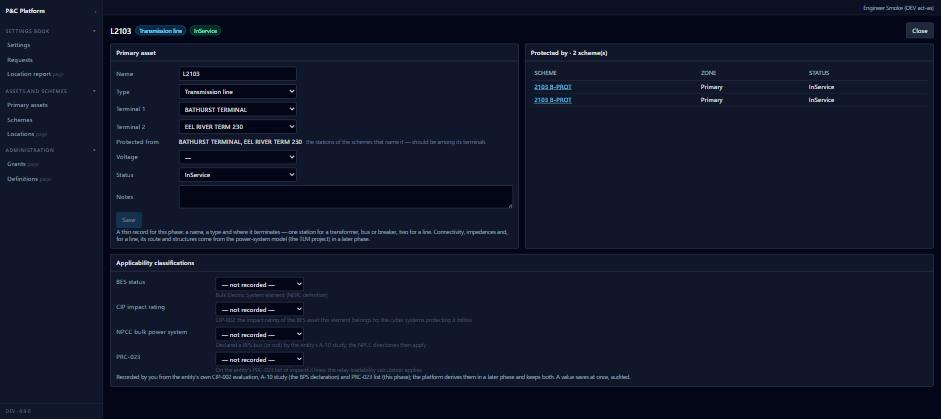
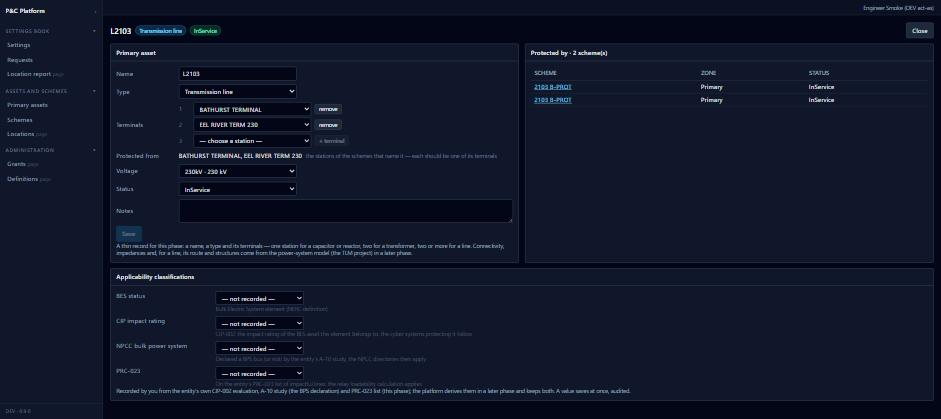
#170: a primary asset has as many terminals as it has (+ terminal on its page); the read model aggregates them
Owner, 2026-09-16: a capacitor or reactor has one terminal, a transformer two, a transmission line could have n. The
TerminalNo check is open-ended; asset.vPrimaryAsset carries TerminalCount, Stations (in order) and TerminalNodeIds; the
primary-asset page lists the terminals with add, change and remove, each saved and audited at once.

Claude-Session: https://claude.ai/code/session_013TsNC7gxoDauT1p8dURK81

diff --git a/src/PnC.Web/src/screens/PrimaryAssetScreen.tsx b/src/PnC.Web/src/screens/PrimaryAssetScreen.tsx
@@ -63,34 +63,55 @@ export function ClassificationPanel({ subjectKind, subjectEntityId, editable }: 
 
 const STATUSES = ['Planned', 'InService', 'OutOfService', 'Retired']
 
+/** The asset's terminals, as many as it has (the owner, 2026-09-16: a capacitor or reactor one, a transformer two, a line could have n):
+ * a station each, numbered in order; "+ terminal" adds one, a change saves at once, remove withdraws it (asset.AssetTerminal, audited). */
+function Terminals({ r }: { r: Row }) {
+  const qc = useQueryClient()
+  const stationsQ = useViewAll('location', 'vNode', { NodeTypeCode: 'Station' }, 'Name')
+  const q = useViewAll('asset', 'vAssetTerminal', { AssetEntityId: s(r.EntityId) }, 'TerminalNo')
+  const [msg, setMsg] = useState<string | null>(null); const [adding, setAdding] = useState(''); const [busy, setBusy] = useState(false)
+  const rows = q.data ?? []
+  const done = (text: string) => { setMsg(text); qc.invalidateQueries({ queryKey: ['view', 'asset', 'vAssetTerminal'] }); qc.invalidateQueries({ queryKey: ['view', 'asset', 'vPrimaryAsset'] }) }
+  const run = async (what: () => Promise<unknown>, text: string) => { setBusy(true); try { await what(); done(text) } catch (e) { setMsg(e instanceof ApiError ? e.message : String(e)) } finally { setBusy(false) } }
+  const nextNo = rows.reduce((m, x) => Math.max(m, Number(x.TerminalNo)), 0) + 1
+  const name = (id: unknown) => s((stationsQ.data ?? []).find((n) => s(n.EntityId).toLowerCase() === s(id).toLowerCase())?.Name)
+  return (
+    <div className="space-y-1">
+      {rows.map((x) => (
+        <div key={s(x.EntityId)} className="flex items-center gap-2">
+          <span className="w-6 text-xs text-slate-500">{s(x.TerminalNo)}</span>
+          <select className={`${inputClass} w-64`} value={s(x.StationNodeEntityId).toLowerCase()} disabled={busy} onChange={(e) => void run(() => proc('asset', 'AssetTerminal_Revise', { EntityId: x.EntityId, AssetEntityId: r.EntityId, TerminalNo: x.TerminalNo, StationNodeEntityId: e.target.value }), `terminal ${s(x.TerminalNo)}: ${name(e.target.value)}.`)}>
+            {(stationsQ.data ?? []).map((n) => <option key={s(n.EntityId)} value={s(n.EntityId).toLowerCase()}>{s(n.Name)}</option>)}
+          </select>
+          <Button kind="mini" disabled={busy} onClick={() => void run(() => proc('asset', 'AssetTerminal_SoftDelete', { EntityId: x.EntityId }), `terminal ${s(x.TerminalNo)} removed.`)}>remove</Button>
+        </div>))}
+      <div className="flex items-center gap-2">
+        <span className="w-6 text-xs text-slate-500">{nextNo}</span>
+        <select className={`${inputClass} w-64`} value={adding} disabled={busy} onChange={(e) => setAdding(e.target.value)}><option value="">— choose a station —</option>{(stationsQ.data ?? []).map((n) => <option key={s(n.EntityId)} value={s(n.EntityId).toLowerCase()}>{s(n.Name)}</option>)}</select>
+        <Button kind="mini" disabled={!adding || busy} onClick={() => void run(async () => { await proc('asset', 'AssetTerminal_Add', { AssetEntityId: r.EntityId, TerminalNo: nextNo, StationNodeEntityId: adding }); setAdding('') }, `terminal ${nextNo}: ${name(adding)}.`)}>+ terminal</Button>
+      </div>
+      {msg && <div className="text-xs text-slate-400">{msg}</div>}
+      {!rows.length && !q.isPending && <div className="text-xs text-slate-500">No terminal yet — a capacitor or reactor has one, a transformer two, a line two or more.</div>}
+    </div>
+  )
+}
+
 /** The primary asset's own fields, editable by anyone who may modify assets (the owner, 2026-09-16: "there needs to be a way for the
  * user to edit these fields" — Line 0012 should have been L0012). Saved through asset.Asset_Revise (the prior row closes in valid
- * time; audited). The terminals — one station for a transformer, bus or breaker, two for a line — are asset.AssetTerminal rows,
- * revised, added or withdrawn beside it. */
+ * time; audited). The terminals are their own list beside it (Terminals). */
 function AssetForm({ r }: { r: Row }) {
   const qc = useQueryClient()
   const typesQ = useViewAll('ref', 'vAssetType', { AssetClassCode: 'Primary' })
   const voltagesQ = useViewAll('ref', 'vVoltageClass', {})
-  const stationsQ = useViewAll('location', 'vNode', { NodeTypeCode: 'Station' }, 'Name')
-  const terminalsQ = useViewAll('asset', 'vAssetTerminal', { AssetEntityId: s(r.EntityId) })
-  const [t1, setT1] = useState(s(r.Terminal1NodeEntityId)); const [t2, setT2] = useState(s(r.Terminal2NodeEntityId))
   const [f, setF] = useState({ Name: s(r.Name), AssetTypeCode: s(r.AssetTypeCode), VoltageClassCode: s(r.VoltageClassCode), Status: s(r.Status), Notes: s(r.Notes) })   // the terminals are t1 / t2 below
   const [msg, setMsg] = useState<{ text: string; bad?: boolean } | null>(null); const [busy, setBusy] = useState(false)
-  const dirty = f.Name !== s(r.Name) || f.AssetTypeCode !== s(r.AssetTypeCode) || f.VoltageClassCode !== s(r.VoltageClassCode) || f.Status !== s(r.Status) || f.Notes !== s(r.Notes) || t1.toLowerCase() !== s(r.Terminal1NodeEntityId).toLowerCase() || t2.toLowerCase() !== s(r.Terminal2NodeEntityId).toLowerCase()
+  const dirty = f.Name !== s(r.Name) || f.AssetTypeCode !== s(r.AssetTypeCode) || f.VoltageClassCode !== s(r.VoltageClassCode) || f.Status !== s(r.Status) || f.Notes !== s(r.Notes)
   const save = async () => {
     if (!f.Name.trim()) { setMsg({ text: 'A name is needed.', bad: true }); return }
     setBusy(true)
     try {
       await proc('asset', 'Asset_Revise', { EntityId: r.EntityId, AssetTypeCode: f.AssetTypeCode, Name: f.Name.trim(), VoltageClassCode: f.VoltageClassCode || null, Status: f.Status, Notes: f.Notes || null })
-      // the terminals: one current row per terminal number — revised, added or withdrawn (asset.AssetTerminal, #170)
-      for (const [no, chosen, was] of [[1, t1, s(r.Terminal1NodeEntityId)], [2, t2, s(r.Terminal2NodeEntityId)]] as [number, string, string][]) {
-        if (chosen.toLowerCase() === was.toLowerCase()) continue
-        const row = (terminalsQ.data ?? []).find((x) => Number(x.TerminalNo) === no)
-        if (!chosen && row) await proc('asset', 'AssetTerminal_SoftDelete', { EntityId: row.EntityId })
-        else if (chosen && row) await proc('asset', 'AssetTerminal_Revise', { EntityId: row.EntityId, AssetEntityId: r.EntityId, TerminalNo: no, StationNodeEntityId: chosen })
-        else if (chosen) await proc('asset', 'AssetTerminal_Add', { AssetEntityId: r.EntityId, TerminalNo: no, StationNodeEntityId: chosen })
-      }
-      setMsg({ text: `${f.Name.trim()} saved.` }); qc.invalidateQueries({ queryKey: ['view', 'asset', 'vPrimaryAsset'] }); qc.invalidateQueries({ queryKey: ['view', 'asset', 'vAssetTerminal'] })
+      setMsg({ text: `${f.Name.trim()} saved.` }); qc.invalidateQueries({ queryKey: ['view', 'asset', 'vPrimaryAsset'] })
     } catch (e) { setMsg({ text: e instanceof ApiError ? e.message : String(e), bad: true }) } finally { setBusy(false) }
   }
   const set = (k: keyof typeof f) => (e: { target: { value: string } }) => setF({ ...f, [k]: e.target.value })
@@ -100,9 +121,8 @@ function AssetForm({ r }: { r: Row }) {
       <div className="grid grid-cols-[8rem_1fr] items-center gap-2">
         <label className="text-slate-400">Name</label><input className={`${inputClass} w-64`} value={f.Name} onChange={set('Name')} placeholder="e.g. L0012" />
         <label className="text-slate-400">Type</label><select className={`${inputClass} w-64`} value={f.AssetTypeCode} onChange={set('AssetTypeCode')}>{(typesQ.data ?? []).map((t) => <option key={s(t.AssetTypeCode)} value={s(t.AssetTypeCode)}>{s(t.Name)}</option>)}</select>
-        <label className="text-slate-400">Terminal 1</label><select className={`${inputClass} w-64`} value={t1} onChange={(e) => setT1(e.target.value)}><option value="">—</option>{(stationsQ.data ?? []).map((n) => <option key={s(n.EntityId)} value={s(n.EntityId).toLowerCase()}>{s(n.Name)}</option>)}</select>
-        <label className="text-slate-400">Terminal 2</label><span><select className={`${inputClass} w-64`} value={t2} onChange={(e) => setT2(e.target.value)}><option value="">— (a line's far end; none for a transformer, bus or breaker) —</option>{(stationsQ.data ?? []).map((n) => <option key={s(n.EntityId)} value={s(n.EntityId).toLowerCase()}>{s(n.Name)}</option>)}</select></span>
-        <label className="text-slate-400">Protected from</label><span className="text-slate-200">{s(r.ProtectedFrom) || <span className="text-slate-500">no scheme yet</span>}<span className="ml-2 text-xs text-slate-500">the stations of the schemes that name it — should be among its terminals</span></span>
+        <label className="text-slate-400">Terminals</label><Terminals r={r} />
+        <label className="text-slate-400">Protected from</label><span className="text-slate-200">{s(r.ProtectedFrom) || <span className="text-slate-500">no scheme yet</span>}<span className="ml-2 text-xs text-slate-500">the stations of the schemes that name it — each should be one of its terminals</span></span>
         <label className="text-slate-400">Voltage</label><select className={`${inputClass} w-64`} value={f.VoltageClassCode} onChange={set('VoltageClassCode')}><option value="">—</option>{(voltagesQ.data ?? []).map((v) => <option key={s(v.VoltageClassCode)} value={s(v.VoltageClassCode)}>{s(v.VoltageClassCode)}{v.NominalKv != null ? ` · ${s(v.NominalKv)} kV` : ''}</option>)}</select>
         <label className="text-slate-400">Status</label><select className={`${inputClass} w-64`} value={f.Status} onChange={set('Status')}>{STATUSES.map((x) => <option key={x}>{x}</option>)}</select>
         <label className="text-slate-400">Notes</label><textarea className={`${inputClass} w-full`} rows={2} value={f.Notes} onChange={set('Notes')} />
@@ -134,8 +154,8 @@ export default function PrimaryAssetScreen({ params: p, id }: { screen: Screen; 
       </header>
       <div className="grid gap-3 lg:grid-cols-2">
         <Panel title="Primary asset">
-          {editable ? <AssetForm r={r} /> : <Facts cols={1} pairs={[['Name', s(r.Name)], ['Type', s(r.AssetTypeName)], ['Terminal 1', s(r.Terminal1StationName) || '—'], ['Terminal 2', s(r.Terminal2StationName) || '—'], ['Protected from', s(r.ProtectedFrom) || 'no scheme yet'], ['Voltage', s(r.VoltageClassCode) || '—'], ['Status', s(r.Status)], ['Notes', s(r.Notes) || '—']]} />}
-          <Status>A thin record for this phase: a name, a type and where it terminates — one station for a transformer, bus or breaker, two for a line. Connectivity, impedances and, for a line, its route and structures come from the power-system model (the TLM project) in a later phase.</Status></Panel>
+          {editable ? <AssetForm r={r} /> : <Facts cols={1} pairs={[['Name', s(r.Name)], ['Type', s(r.AssetTypeName)], ['Terminals', s(r.Stations) || '—'], ['Protected from', s(r.ProtectedFrom) || 'no scheme yet'], ['Voltage', s(r.VoltageClassCode) || '—'], ['Status', s(r.Status)], ['Notes', s(r.Notes) || '—']]} />}
+          <Status>A thin record for this phase: a name, a type and its terminals — one station for a capacitor or reactor, two for a transformer, two or more for a line. Connectivity, impedances and, for a line, its route and structures come from the power-system model (the TLM project) in a later phase.</Status></Panel>
         <Panel title={`Protected by · ${protectedByQ.isPending ? '…' : (protectedByQ.data ?? []).length} scheme(s)`}>
           <DataGrid rows={protectedByQ.data ?? []} rowKey={(x) => s(x.EntityId)} emptyText="No scheme names this asset yet — on a scheme's page, “protects”." columns={[
             { key: 'SchemeName', label: 'Scheme', render: (x) => <a className="text-sky-300 underline" href={screenPath('SCHEME', s(x.SchemeEntityId))} onClick={(e) => { e.preventDefault(); navigate(screenPath('SCHEME', s(x.SchemeEntityId))) }}>{s(x.SchemeName)}</a> },

diff --git a/src/PnC.Web/src/screens/SchemeScreen.tsx b/src/PnC.Web/src/screens/SchemeScreen.tsx
@@ -43,7 +43,7 @@ export default function SchemeScreen({ params: p, id }: { screen: Screen; params
   const station = stationQ.data
   // every primary asset, any station: a line has two ends and both ends' schemes protect the one line (2103 B-PROT at Bathurst and at Eel River, 2026-09-16)
   const candidatesQ = useViewAll('asset', 'vPrimaryAsset', {}, 'Name')
-  const candidates = useMemo(() => { const f = find.toLowerCase(); const all = candidatesQ.data ?? []; const hit = all.filter((x) => !f || s(x.Name).toLowerCase().includes(f) || s(x.Stations).toLowerCase().includes(f)); const here = (x: Row) => s(x.Terminal1NodeEntityId) === s(station?.StationNodeEntityId) || s(x.Terminal2NodeEntityId) === s(station?.StationNodeEntityId) ? 0 : 1; return hit.sort((a, b) => here(a) - here(b) || s(a.Name).localeCompare(s(b.Name))) }, [candidatesQ.data, find, station])
+  const candidates = useMemo(() => { const f = find.toLowerCase(); const all = candidatesQ.data ?? []; const hit = all.filter((x) => !f || s(x.Name).toLowerCase().includes(f) || s(x.Stations).toLowerCase().includes(f)); const here = (x: Row) => s(x.TerminalNodeIds).toLowerCase().includes(s(station?.StationNodeEntityId).toLowerCase()) && station?.StationNodeEntityId ? 0 : 1; return hit.sort((a, b) => here(a) - here(b) || s(a.Name).localeCompare(s(b.Name))) }, [candidatesQ.data, find, station])
   const editable = can('Scheme.Modify')
   const refresh = () => { qc.invalidateQueries({ queryKey: ['schemeProtects', id] }); qc.invalidateQueries({ queryKey: ['view', 'asset', 'vPrimaryAsset'] }) }
   const link = async (assetId: string, label: string) => {

diff --git a/src/PnC.Api.Smoke/Program.cs b/src/PnC.Api.Smoke/Program.cs
@@ -992,7 +992,7 @@ if (admin is not null && approver is not null && hydro is not null && tech is no
             Must(la == HttpStatusCode.OK && line is not null && pa == HttpStatusCode.OK && sa == HttpStatusCode.OK, $"#170: a line created with the station as its terminal 1 and the scheme protects it ({(int)la} {Code(lb)} · {(int)pa} {Code(pb)} · {(int)sa} {Code(sb)})");
             var (pas, pab) = await Get(admin, $"api/v1/asset/vPrimaryAsset?EntityId={line}");
             var prow = (pab?["rows"] as JsonArray)?.FirstOrDefault();
-            Must(pas == HttpStatusCode.OK && prow?["AssetTypeCode"]?.ToString() == "Line" && string.Equals(prow?["Terminal1NodeEntityId"]?.ToString(), station.ToString(), StringComparison.OrdinalIgnoreCase) && prow?["Classifications"] is null,
+            Must(pas == HttpStatusCode.OK && prow?["AssetTypeCode"]?.ToString() == "Line" && (prow?["TerminalNodeIds"]?.ToString() ?? "").Contains(station.ToString()!, StringComparison.OrdinalIgnoreCase) && prow?["Classifications"] is null,
                 $"#170: the primary-asset read model shows the line with its terminal and no classification yet ({prow?["AssetTypeName"]}, terminals {prow?["Stations"]})");
             var (k1s, k1b) = await Post(hydro!, "api/v1/asset/RecordClassification", new { SubjectKind = "Asset", SubjectEntityId = line, ClassificationKindCode = "CipImpactRating", ClassificationValue = "Medium" });
             var (k2s, k2b) = await Post(admin, "api/v1/asset/RecordClassification", new { SubjectKind = "Asset", SubjectEntityId = line, ClassificationKindCode = "NpccBulkPowerSystem", ClassificationValue = "BPS" });

diff --git a/docs/decisions/DECISION-LOG.md b/docs/decisions/DECISION-LOG.md
@@ -184,7 +184,7 @@ the owner's mark-up of requirements v0.1. `Schema review` is `docs/review/SCHEMA
 | 167 | **The settings record's columnless legacy fields are characteristics of the revision, in one seeded schema; the record screen is plain code.** `CharacteristicSchema.RecordTemplate` definition `SETTINGS_RECORD` (`Seed_config_CharacteristicSchema_SettingsRecord.sql`): class, use, responsibility, bulk power element, protection group, element, line type, number of relays under *Classification*; the four main and four auxiliary CT ratios and the two PT ratios under *Instrument transformers*. The record screen (`src/PnC.Web/src/screens/RecordScreen.tsx`, screen kind `record`, definition `SETTINGS_RECORD` naming only its view and key) lays out whatever the schema carries by display group, reads a migrated revision's values from its record summary until they are migrated into values, and saves a value on an **Outstanding** revision directly (`document.CharacteristicValue_Add` / `_Revise`, audited) — the direct save with audit of #163; an in-service or archived revision is the record and is read-only. The screen carries the 0.9.0 record page's every function (facts, notes, parsed settings, the text as filed, files and records, Compare) and replaces it; with the work item and the queue in React, `settings.html`, `requests.html`, `request.html` and `setting.html` are retired (service-worker shell `shell-10`). Rule applied (owner, 2026-09-15): a one-off screen is React with its constants, not a parameter grammar — the screen definition names the data and the kind, nothing more | The owner's ruling that these fields are characteristics ("no value in indexing, grouping etc. on them"); #163; #165 | W8 |
 | 168 | **The first device template: the SEL-221F carried to completion before any modern relay — the settings by function, a reader and a writer per vendor format proven by round trip, the template as the daily-value work.** The owner, 2026-09-16: engineers will not author JSON and procedures seldom change; what the staff use every day is the device — its settings grouped by function with the inputs the model has, the standard settings marked, the NERC/NPCC classifications, the compliance calculations and documentation ("everything needed to manage the device"). And the hard requirement: settings are edited **in the platform** and at implementation the platform **writes the manufacturer's native settings file** with no retyping; a vendor whose format cannot be written is excluded from procurement. Rulings: an aliases column on the setting definition; no standard settings for the 221F (deferred); the classification → requirement logic is generic (BCA → CIP, NPCC A-10 → Directory 4, the PRC-023 list → a loadability calculation from the settings) and how each is handled may be custom; the 221F's file is the name=value list in SET order. **Built (increment 1):** `config.SettingDefinition` + `DisplayOrder` (the SET order, the writer's order), `Aliases` (legacy spellings, matched case-insensitively) and `Format` (`decimal:N` / `integer` / `text` / `mask3`); `document.ParsedSetting` + `RawValue` (the value text as filed — what makes a platform-written file byte-identical on re-parse). `process.ParseSettingsText`: aliases, chained `A=B=C=value`, the `LOGIC SETTINGS:` marker, a malformed fragment (`PSVC=S 27VLO=40`, a separator missing) read at its first `=` and noted, a re-parse closes the prior reading in valid time. `process.RenderSettingsText` (new, the writer; `GET /api/v1/settings/{revision}/rendered`). `compliance.fSettingFactValue` reads `SettingsText` revisions too (every text-settings device's `device.settings.*` facts were NULL — a defect). **The template** (`tools/template_sel221f.py`, one source → `Seed_config_SettingsTemplate_SEL221F.sql` and `docs/design/examples/templates/sel-221f.template.md`, the artefact the owner reviews): 56 rows from the manual (IM 981207, `Z:\Archive-WorkingData-Cloud\Work\DATA\Manuals\SEL\221F-2-3-4_IM_19981207.pdf`) — ID, the 42 SET settings, BFIN1/BFTD (the -3/-4), the ten logic masks — grouped by the manual's Specifications headings (twelve groups; the Section-5 heading and page cites in each description; a first cut by the 22 Section-5 headings gave 22 tabs and was replaced), with unit, base, primary range, closed list (seven enumerations), ANSI function, aliases (`Z1`→`Z1%`, `RO`→`R0`, `XO`→`X0`, `Z3DP`→`Z3D`) and format; the manual's two internal inconsistencies (CTR 1–6000 vs 1–5000; 25DV 0–125 vs 0–150 secondary) recorded in the descriptions. Bound to the model codes `SEL-221F Z1-3=.125-64 OHMS` and `SEL-221F`; the `SEL-221S` codes are **not** bound (their texts carry 67ND and other names the 221F has not — a different relay, a finding, not a merge). `Seed_ref_AnsiFunction_Core.sql` gives the codes the template cites their C37.2 names (the migration had named them from legacy position text). **Migration:** the filed text is `SET1` + `", "` + `SETTINGS2` — the legacy split a list at 255 characters and #140 filed the head only (51 of the 53 Active 221F texts were truncated; the tail, with the logic masks, sat in the record summary). **The round trip** (`docs/schema/migration/roundtrip_settings.py`): for every revision `render(parse(text))` against the filed text — identical / values-equal (the differences listed: the legacy users typed 14 different orders and spellings) / mismatch; a platform-written file must be identical (the strict rule, increment 2). Before the reload, on DEV's 53 Active 221F texts: 19 identical, 34 values-equal, 0 mismatch. **The device sheet** (`DeviceSettings.tsx` inside `RecordScreen.tsx`, plain React per #167): what the relay does as function chips from the template's ANSI codes, the inputs from its ratio settings (the manual's words in the definitions), a tab per group with value / unit / range / out-of-range and the manual's words per setting, a SHOWSET-like listing, and the file the platform writes beside the file as filed; the generic instrument-transformer characteristics hidden when the template carries the ratios. Nothing per model in code: a template for another relay draws the same way. Data findings for the owner: the `SEL-221F` model code carries texts of other relays (ZD2L, Z3DG, TAP, T.D. — Partial); three texts are malformed at the source. Deferred to the next increments: editing in the platform and the M as a copy of the A filed as rendered text at the settings step (2); classifications and the generic obligation rules with the PRC-023 worked example, content from the owner (3). **Increment 2 (built 2026-09-16, evening):** `process.SetParsedSetting` (one value of an outstanding revision, read as the parser reads it — type, primary range, closed list — the prior row closed in valid time, audited with code/from/to; `ConfigurationFile.Modify` on the device over HTTP); `process.CopyRevisionAsDraft` (at the request step, every device named by a captured Device set gets a draft copied from its in-service revision, parsed, in the package — the legacy M from the A, Outstanding at once); `process.IssueRenderedSettings` + `process.RefileRevision` (a settings step committed with no file writes the draft's rows as the model's text and files it as the revision's Native file, replacing the copy's, then reads its own file back through the parser — the round trip in place; `evidence.required` is satisfied by the platform-written file; a vendor file attached over the copy re-files the copy, one outstanding revision per device per package); the edit cell on the device sheet. Proven twice: the smoke's #168 section on the BDD15B fixture, and the owner's four steps on Bathurst 0012 B-PROT SEL-221F through the screens (`evidence/W8-fourstep-221f-*.jpg`): request → revision 3 outstanding as a copy of revision 2 → Z1% edited 21→22 on the sheet (three audited edits) → rationale attached, settings step committed with no file: `A0523_875199 (2).txt`, 510 bytes, byte-identical to the rendered text, re-read Parsed → hold released → installed as the technician → completed: revision 3 in service from 13:12, revision 2 archived, the request Closed; the Active round trip then reads 1 identical (the platform's file), 52 values-equal, 0 mismatch. **The fresh DEV reload** (`RECONCILIATION-2026-09-16-DEV.md`): 437 358 rows in 7 304 s, second pass 0; every text SET1+SETTINGS2 (11 554 equal, 0 differ); 949 revisions parsed; the 221F round trip 181 revisions values-equal, 0 mismatch, 0 unparsed after template v4 (alias MT0), the parser's tolerant marker, the missing-separator rule (a space, a known name and '=' is a comma the legacy user missed — noted per record) and the refined chain rule (a misspelt single word in a chain is a typo, the other names keep the value); the round-trip tool compares the filed text with the stored rows, not with a re-parse of the rendered text, which had hidden a lost chain. Parser rules and their tests live in `ParseSettingsText.sql` / `roundtrip_settings.py`; the data findings (typos, foreign texts under the `SEL-221F` code, missing separators) are the records' own, listed in the reconciliation | The owner's direction and rulings of 2026-09-16; the manual; the DEV survey of the 221F texts; agrees with #61 (a per-model template) and extends it with the writer; supersedes the reading that data flows only from the device file to the platform | W8 |
 | 169 | **A hand-written read model reads its lookups from the base tables in the current-row form, never through a generated current view; a scoped read of a materialised read model pins its join order.** Found on the reloaded DEV estate (2026-09-16): `document.vSettingsRecord` joined `work.vWorkRequest` and `process.vWorkflowInstance` (generated current views, ROW_NUMBER over the entity) and the optimizer evaluated the request view once per outer row — the whole WorkRequest table scanned and sorted 11 572 times, 137 million rows, 48 s for the view that had run in 1–6 s the day before (a plan the fresh statistics flipped). Rewritten as `OUTER APPLY … WHERE ValidTo IS NULL AND IsDeleted = 0 … ORDER BY RowSeq DESC` (the filtered indexes' own form, as the view's other lookups already were): 1.2 s. Then the API's scoped form of the same read (the readable set joined to the view, `OPTION (RECOMPILE)`, #158) still ran past 200 s in every free shape — join, `IN`, a table variable — because the optimizer drove the view's correlated lookups from the readable set (6 879 assets); `FORCE ORDER` (or a hash-join hint) kept the written order, the view first, and measured 1.7 s. `SqlSession` now adds `FORCE ORDER` to the recompiled scoped read of the views in `MaterialiseBeforePaging` (the hand-written read models); generated views keep the optimizer's freedom. The settings grid through the API: 1.6 s (500 rows). Also: a copy made at the request step belongs to its request before any record points at it — the view finds the request through the request-confirmation record that names the package (`prec`), so the work item lists the copy at once. **The record screen's sections are tabs (owner, 2026-09-16, on seeing the sheet): Settings, Classification, Notes, Text as filed, Files and records, Compare — nothing sits under the settings tabs whatever tab is chosen (it read as part of the settings). Follow-up recorded: a copy made at the request step shows an empty Classification because a migrated revision's class/use/responsibility live in its record summary, not in characteristic values (#167); migrating them into values is the fix, then `CopyRevisionAsDraft` carries them | The measurements of 2026-09-16 (actual plans read from `SET STATISTICS XML`); agrees with #158 (the join form) and refines it; the NFR-2 rule | W8 |
-| 170 | **Applicability classifications belong to the primary asset a scheme protects, not to the relay; in this phase a person records them, a later phase derives them; the primary-asset registry is thin.** The owner, 2026-09-16, in three steps. (1) Whether a relay is a BES Cyber Asset for CIP is only partly about the device (a cyber device or not); the deciding criterion is the importance of the primary asset it protects in its station — the CIP-002 evaluation under the entity's procedure puts primary assets in scope and every other CIP standard follows; NPCC is the same shape: the A-10 study, repeated on an interval, lists the impactful busses and the directories apply to what sits at them. (2) The CIP-002 procedure and the A-10 derivation are a project of their own, wanted but not this phase: the values are set by a person for now, from the entity's own lists, in a way that leaves the derivation, its schedule and its reporting to slot in without rework. (3) The classification belongs to the primary asset the device is assigned to protect; transmission lines will come from the owner's TLM project (structure coordinates; Carson's equations still to do), transformers, busses and connectivity are not modelled yet, and modelling the power system is not this phase. **Built:** asset types Line, Transformer, Bus, Breaker, Generator, Capacitor, Reactor and System (the asset a RAS or other system-protection scheme protects — the owner: a system protection has no single primary element), class Primary, not devices, a line not routed until TLM supplies its route (`Seed_ref_AssetType_Primary.sql`); the PRC-023 classification kind beside BesStatus, CipImpactRating and NpccBulkPowerSystem (the seeded NpccA10 kind retired the same evening — the owner: "NPCC bulk power system and NPCC A-10 are the same thing; A-10 is the study document that determines whether a bus is declared as an NPCC BPS bus or not" — one kind, the study as its basis); `asset.vPrimaryAsset` (the asset, its station through its placement, its current classifications summarised); `asset.RecordClassification` (one current value per subject and kind, `Basis = Recorded`, the person and the instant, optionally the list or study as the reference document; a new value revises, an empty one withdraws; audited; `Asset.Modify` on the subject over HTTP); the `SCHEME` screen (members; "protects": pick a primary asset at the scheme's station or create one — a name, a type, the station, nothing more — with its zone role; `scheme.SchemeProtects_Add/_SoftDelete`) and the `PRIMARY_ASSET` screen (where it is, the schemes protecting it, the classifications in the standards' own words — CIP High/Medium/Low/None, BES/Not BES, BPS/Not BPS, Listed/Not listed — never a yes/no that would need re-encoding); the device sheet's Where panel shows "protects <asset> via <scheme>" with the inherited classifications and links to both. Shown on DEV: Line 0012 created at Bathurst Terminal from the 0012 B-PROT scheme's page, protected primary, CIP impact Medium and A-10 Impactful recorded by the engineer, the device sheet of 0012 B-PROT reading them through its scheme (`evidence/W8-scheme-protects-line-0012.jpg`, `W8-primary-asset-line-0012-classified.jpg`, `W8-record-protects-inherited.jpg`); the smoke's #170 section (a line at the fixture station, recorded, revised, withdrawn, the history kept, ReadOnly refused). **Not built, by the ruling:** the derivation (`Program.ClassificationDerivation` stays a kind row), the flow-down from station or bus to the elements at it, the CIP-002 procedure, the A-10 schedule; the estate's primary assets themselves (none migrated — the legacy data never held them; entered per scheme by the group, or created from the scheme names by rule once the owner confirms the naming on a sample, or imported from TLM when it joins). The obligation rules (BCA → CIP set, A-10 → Directory 4, PRC-023 → loadability) read the classification whatever its basis and are the next increment, with the requirement sets, thresholds and the line-rating source from the owner. **Same evening, from the owner's use of it:** (a) the primary asset's own fields are editable on its page (`asset.Asset_Revise`; "Line 0012" should have been L0012 — the group's L-number form); voltage classes 69/138/230/345 kV seeded. (b) **A line has one or two terminals** ("three terminal lines will have two line numbers"): the first cut placed a primary asset at the station whose scheme created it, which showed Eel River on a line the Bathurst scheme also protects and confused; a placement is a device's (one Installed asset per node; a routed asset has none). Replaced by `asset.AssetTerminal` — terminal 1 and 2, each a station, one current row per asset and terminal number — set on the asset's page and, at creation from a scheme, terminal 1 = that scheme's station; the read model shows the terminals and, as a cross-check, the stations of the schemes that protect it ("protected from" — a scheme at a station that is not a terminal is a data error). Node.Path is the ancestors' chain without the node's own id (the first station lookup matched every station). L0012 and L2103 given their terminals and their first-cut placements closed | The owner's three rulings of 2026-09-16 (recorded in memory as `feedback-applicability-from-primary-assets`); the schema's existing `asset.Classification` (subject Node/Asset/Scheme, Basis Recorded/Derived, reference document, determination) and `scheme.SchemeProtects`; agrees with #68 (classification carried) and defers its derivation | W8 |
+| 170 | **Applicability classifications belong to the primary asset a scheme protects, not to the relay; in this phase a person records them, a later phase derives them; the primary-asset registry is thin.** The owner, 2026-09-16, in three steps. (1) Whether a relay is a BES Cyber Asset for CIP is only partly about the device (a cyber device or not); the deciding criterion is the importance of the primary asset it protects in its station — the CIP-002 evaluation under the entity's procedure puts primary assets in scope and every other CIP standard follows; NPCC is the same shape: the A-10 study, repeated on an interval, lists the impactful busses and the directories apply to what sits at them. (2) The CIP-002 procedure and the A-10 derivation are a project of their own, wanted but not this phase: the values are set by a person for now, from the entity's own lists, in a way that leaves the derivation, its schedule and its reporting to slot in without rework. (3) The classification belongs to the primary asset the device is assigned to protect; transmission lines will come from the owner's TLM project (structure coordinates; Carson's equations still to do), transformers, busses and connectivity are not modelled yet, and modelling the power system is not this phase. **Built:** asset types Line, Transformer, Bus, Breaker, Generator, Capacitor, Reactor and System (the asset a RAS or other system-protection scheme protects — the owner: a system protection has no single primary element), class Primary, not devices, a line not routed until TLM supplies its route (`Seed_ref_AssetType_Primary.sql`); the PRC-023 classification kind beside BesStatus, CipImpactRating and NpccBulkPowerSystem (the seeded NpccA10 kind retired the same evening — the owner: "NPCC bulk power system and NPCC A-10 are the same thing; A-10 is the study document that determines whether a bus is declared as an NPCC BPS bus or not" — one kind, the study as its basis); `asset.vPrimaryAsset` (the asset, its station through its placement, its current classifications summarised); `asset.RecordClassification` (one current value per subject and kind, `Basis = Recorded`, the person and the instant, optionally the list or study as the reference document; a new value revises, an empty one withdraws; audited; `Asset.Modify` on the subject over HTTP); the `SCHEME` screen (members; "protects": pick a primary asset at the scheme's station or create one — a name, a type, the station, nothing more — with its zone role; `scheme.SchemeProtects_Add/_SoftDelete`) and the `PRIMARY_ASSET` screen (where it is, the schemes protecting it, the classifications in the standards' own words — CIP High/Medium/Low/None, BES/Not BES, BPS/Not BPS, Listed/Not listed — never a yes/no that would need re-encoding); the device sheet's Where panel shows "protects <asset> via <scheme>" with the inherited classifications and links to both. Shown on DEV: Line 0012 created at Bathurst Terminal from the 0012 B-PROT scheme's page, protected primary, CIP impact Medium and A-10 Impactful recorded by the engineer, the device sheet of 0012 B-PROT reading them through its scheme (`evidence/W8-scheme-protects-line-0012.jpg`, `W8-primary-asset-line-0012-classified.jpg`, `W8-record-protects-inherited.jpg`); the smoke's #170 section (a line at the fixture station, recorded, revised, withdrawn, the history kept, ReadOnly refused). **Not built, by the ruling:** the derivation (`Program.ClassificationDerivation` stays a kind row), the flow-down from station or bus to the elements at it, the CIP-002 procedure, the A-10 schedule; the estate's primary assets themselves (none migrated — the legacy data never held them; entered per scheme by the group, or created from the scheme names by rule once the owner confirms the naming on a sample, or imported from TLM when it joins). The obligation rules (BCA → CIP set, A-10 → Directory 4, PRC-023 → loadability) read the classification whatever its basis and are the next increment, with the requirement sets, thresholds and the line-rating source from the owner. **Same evening, from the owner's use of it:** (a) the primary asset's own fields are editable on its page (`asset.Asset_Revise`; "Line 0012" should have been L0012 — the group's L-number form); voltage classes 69/138/230/345 kV seeded. (b) **A primary asset has as many terminals as it has** — the owner: a capacitor or reactor one, a transformer two, a transmission line could theoretically have n; "three terminal lines will have two line numbers"; entered with a "+ terminal" button, a station each: the first cut placed a primary asset at the station whose scheme created it, which showed Eel River on a line the Bathurst scheme also protects and confused; a placement is a device's (one Installed asset per node; a routed asset has none). Replaced by `asset.AssetTerminal` — terminals numbered 1, 2, …, each a station, one current row per asset and terminal number — added, changed and removed on the asset's page (each change saved and audited at once) and, at creation from a scheme, terminal 1 = that scheme's station; the read model shows the terminals and, as a cross-check, the stations of the schemes that protect it ("protected from" — a scheme at a station that is not a terminal is a data error). Node.Path is the ancestors' chain without the node's own id (the first station lookup matched every station). L0012 and L2103 given their terminals and their first-cut placements closed | The owner's three rulings of 2026-09-16 (recorded in memory as `feedback-applicability-from-primary-assets`); the schema's existing `asset.Classification` (subject Node/Asset/Scheme, Basis Recorded/Derived, reference document, determination) and `scheme.SchemeProtects`; agrees with #68 (classification carried) and defers its derivation | W8 |
 | 122 | **The in-browser gate is observed by the session in Chrome and kept as a screenshot** (`docs/workflow/evidence/`); the smoke asserts what HTTP can — the files served under the CSP with no inline script or style, the editor files in the shell list, the dry run's answers and their paths, the read-back as text, the refusal, the unchanged version count | No browser automation is part of the smoke (W1's browser claim was an observation too); a screenshot a later reader can see is the evidence the workflow's "observed, not asserted" rule asks for | W5 |
 
 ---
